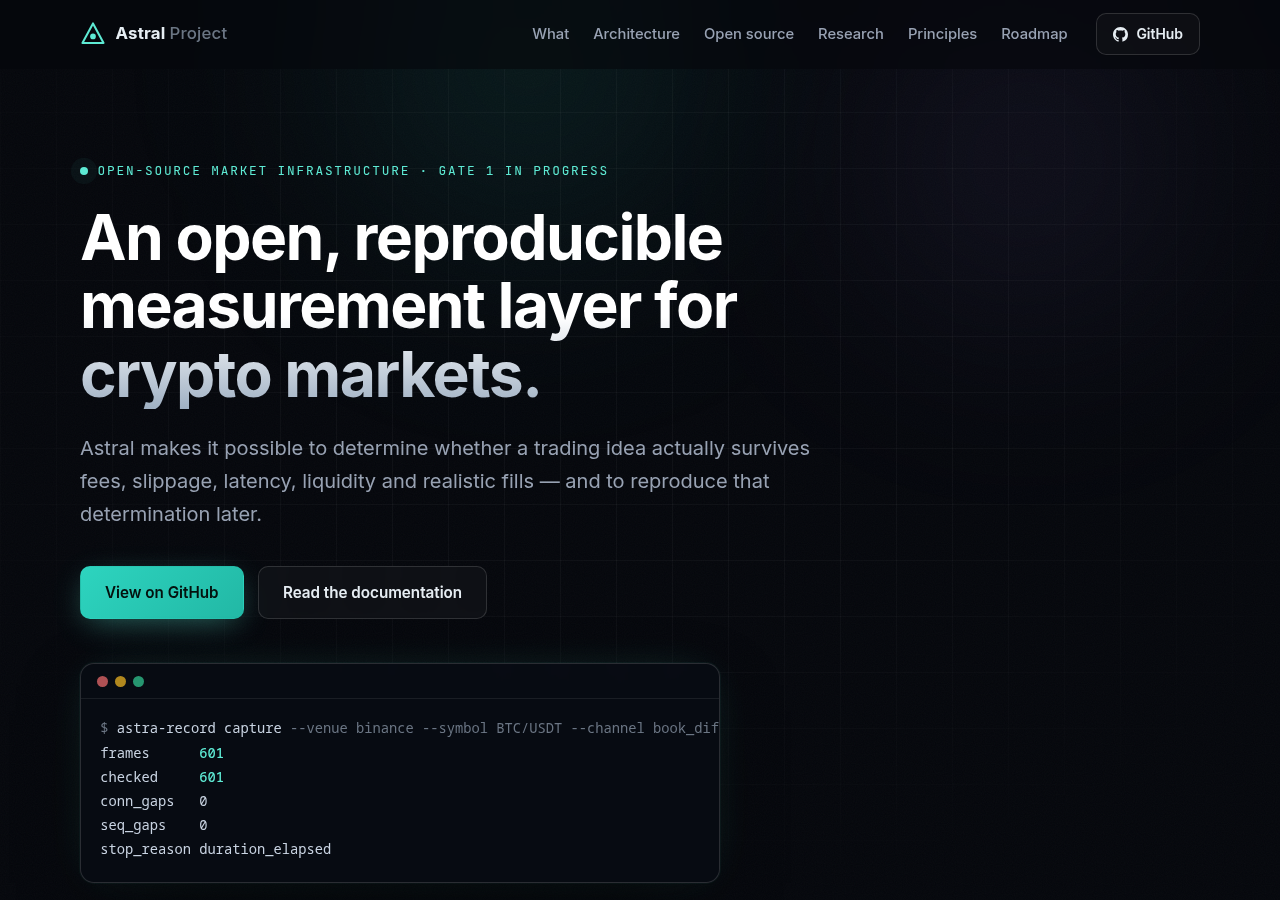
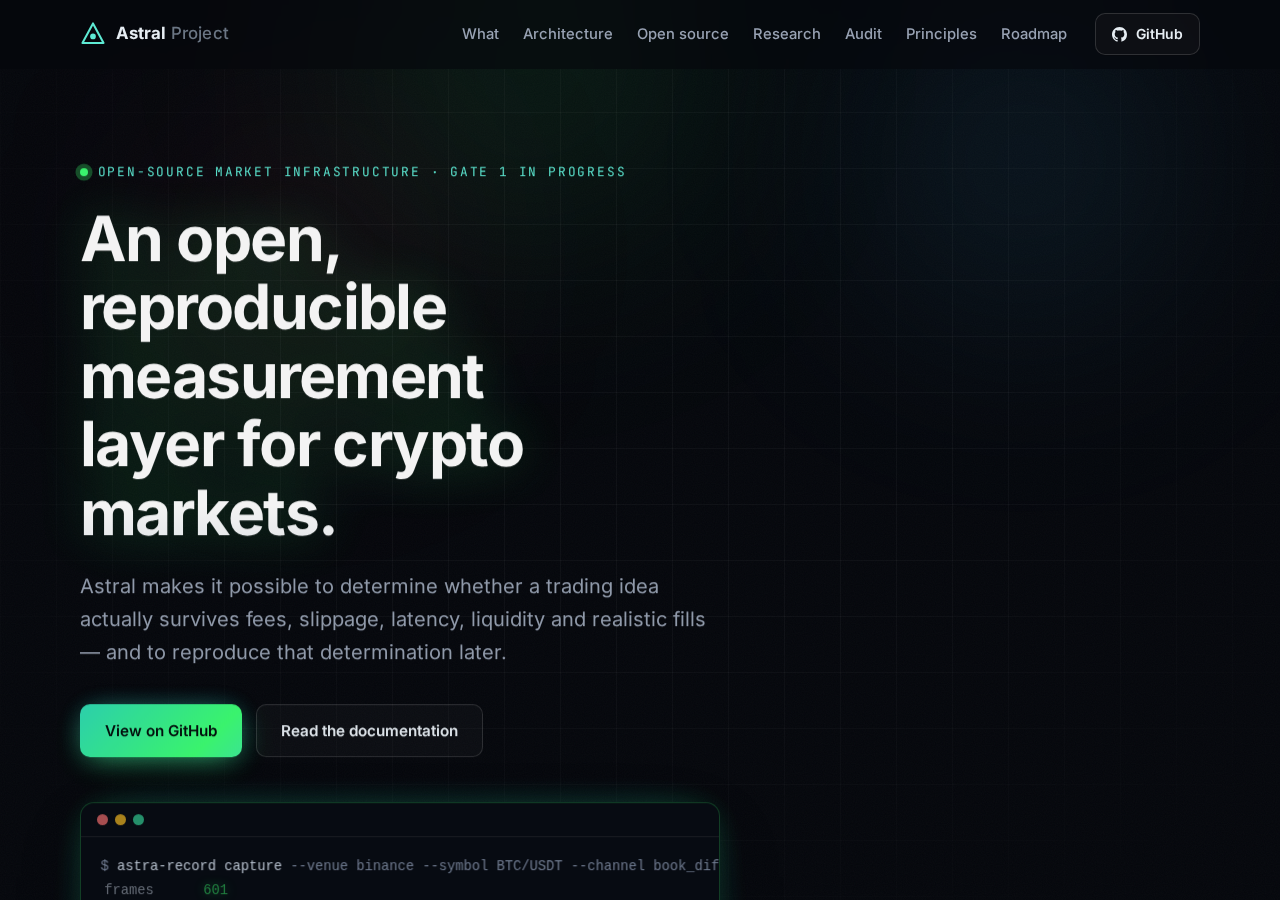
Refresh site screenshot: current hero with neon theme and Audit nav
- recaptured at 1280x900 via headless Chromium with virtual
  time (entrance animations settled, stats counted up)
- README alt text dates the frame

diff --git a/README.md b/README.md
@@ -6,7 +6,7 @@
 
 **Live site: [astral-project-ruddy.vercel.app](https://astral-project-ruddy.vercel.app/)**
 
-![Astral Project website](website/screenshot.png)
+![Astral Project website, October 2026](website/screenshot.png)
 
 Astra makes it possible to determine whether a trading idea actually survives
 fees, slippage, latency, liquidity and realistic fills — and to reproduce that
